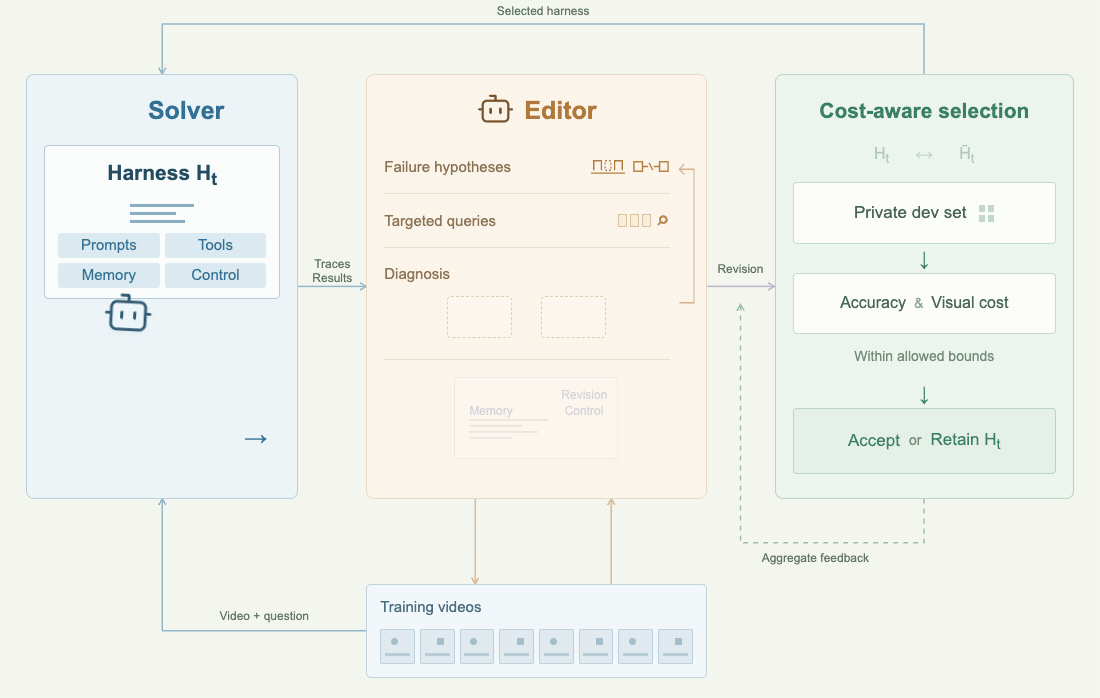
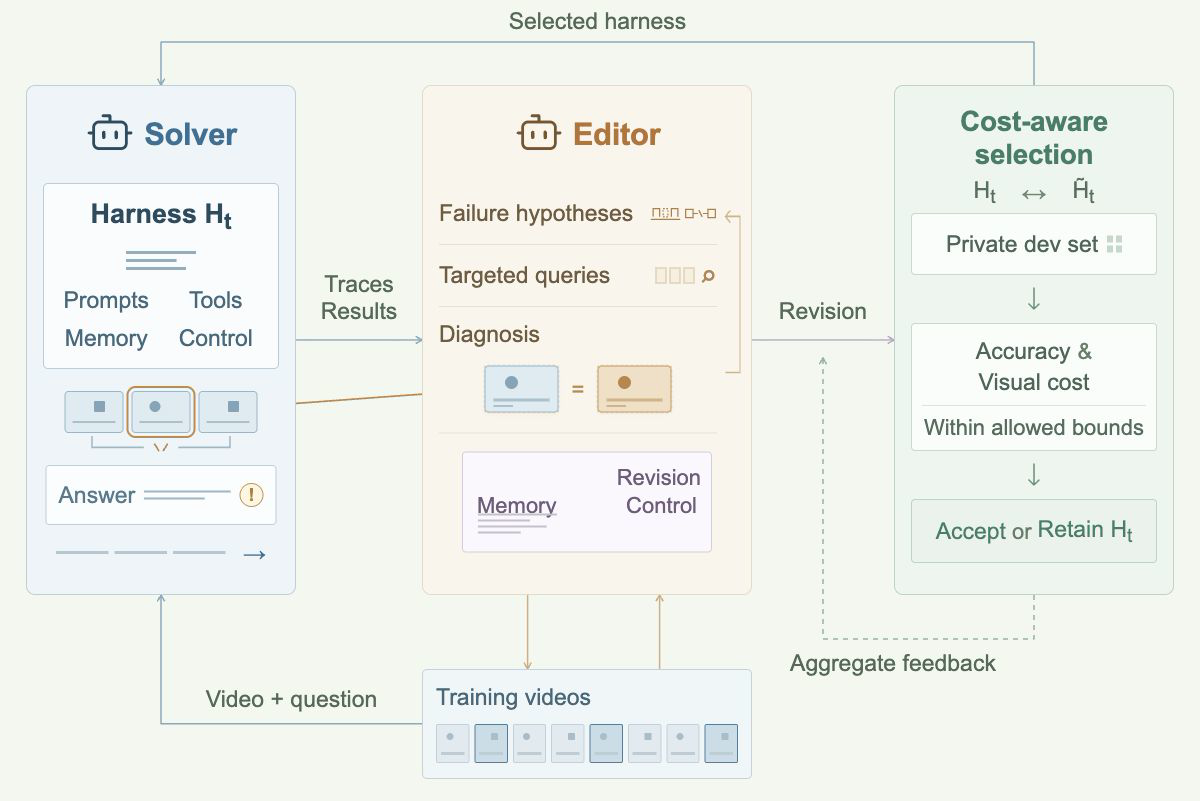
Add files via upload

diff --git a/docs/index.html b/docs/index.html
@@ -25,7 +25,7 @@
 </header>
 <main id="main">
 <section class="visual-teaser container gif-workflow" id="workflow" aria-label="Animated Video-RSI framework">
-<picture><source media="(prefers-reduced-motion: reduce)" srcset="/Video-RSI/assets/workflow-poster.png"><img src="/Video-RSI/assets/workflow.gif" width="1100" height="698" alt="Solver execution, failure hypotheses, targeted queries, diagnosis, harness revision, and cost-aware selection. The retained harness is used in the next round." fetchpriority="high"></picture>
+<picture><source media="(prefers-reduced-motion: reduce)" srcset="/Video-RSI/assets/workflow-poster.png?v=ab1cb4f00a"><img src="/Video-RSI/assets/workflow.gif?v=ab1cb4f00a" width="1200" height="801" alt="Solver execution, failure hypotheses, targeted queries, diagnosis, harness revision, and cost-aware selection. The retained harness is used in the next round." fetchpriority="high"></picture>
 <p class="sr-only">Illustrative mechanism sequence, not a recorded experimental case. The Editor actively investigates training videos. Model weights remain frozen. Private evaluation supplies aggregate feedback for harness selection.</p>
 </section>
 

diff --git a/README.md b/README.md
@@ -20,7 +20,7 @@ Video-RSI improves video understanding agents by evolving their executable
 harnesses while keeping model weights frozen. The Editor investigates training
 failures by revisiting videos, then turns the evidence into reusable code changes.
 
-[![Video-RSI workflow: Solver execution, active investigation, harness revision, and cost-aware selection.](docs/assets/workflow.gif)](https://bingjunluo.github.io/Video-RSI/)
+[![Video-RSI workflow: Solver execution, active investigation, harness revision, and cost-aware selection.](docs/assets/workflow.gif?v=ab1cb4f00a)](https://bingjunluo.github.io/Video-RSI/)
 
 ### Key Features
 
